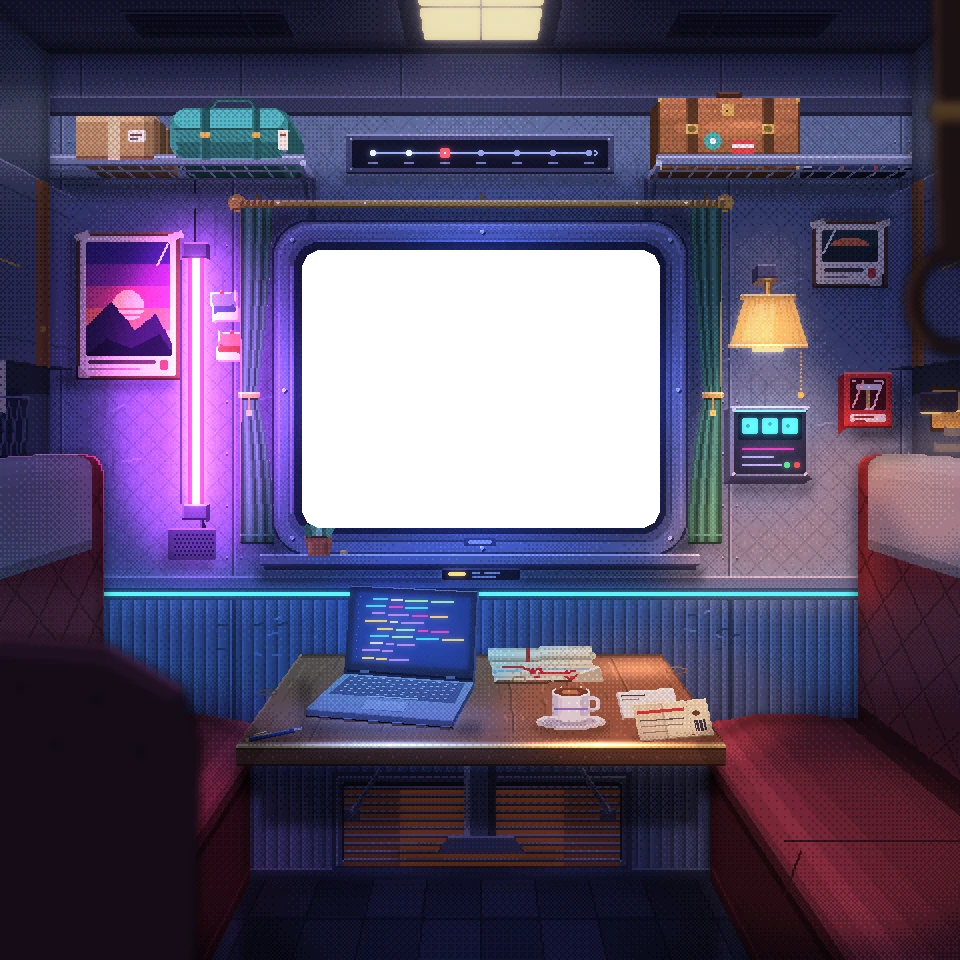
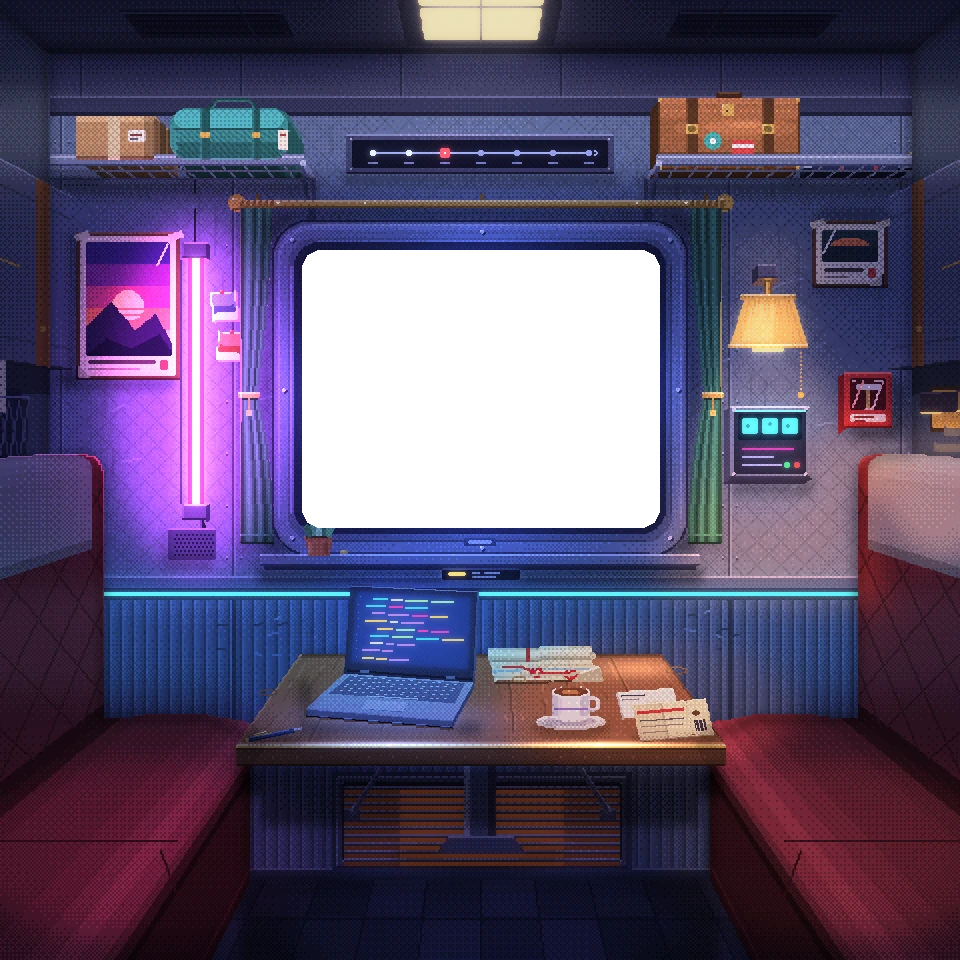
Revert "art(S-08): a foreground at the lens"
This reverts commit 41c35e211900637131da22fcb07e49766082dc27.

Changed region(s): [[0.0, 0.6562, 0.2188, 1.0], [0.9375, 0.0, 1.0, 0.375]]

diff --git a/tools/art/room.py b/tools/art/room.py
@@ -1919,43 +1919,6 @@ def reflections(a, table, front, k):
 BANDS = float(os.environ.get('BANDS', '0.2')) or None
 
 
-# The near layer (docs/13, S-08, stage 6): things right at the lens, dark,
-# large and a little soft, so the picture has a foreground inside the room as
-# well as at its sides: the end of the left-hand bench's armrest in the lower
-# left corner, and a grab strap hanging from the ceiling at the upper right.
-# Drawn into the room's picture, not as a layer of its own (D-03), and clear of
-# every object, whose sprites are cut from the same picture.
-NEAR_BLUR = 2.2  # scene units: soft, being out of focus so near the lens
-
-
-def near_layer(a, k):
-    h, w = a.shape[:2]
-    lay = Image.new('RGBA', (w, h), (0, 0, 0, 0))
-    d = ImageDraw.Draw(lay)
-    to = lambda pts: [((x + OX) * k, y * k) for x, y in pts]
-    # the armrest: the bench's padded end, near the camera, its top edge
-    # catching the neon
-    arm = [(-60, 480), (-60, 336), (0, 318), (54, 322), (92, 344), (100, 372), (98, 480)]
-    d.polygon(to(arm), fill=(20, 12, 24, 255))
-    d.line(to([(-60, 336), (0, 318), (54, 322), (92, 344)]), fill=(130, 58, 118, 255), width=round(2 * k))
-    d.line(to([(-60, 342), (0, 325), (52, 329), (86, 348)]), fill=(46, 22, 46, 255), width=round(3 * k))
-    for x, y in ((10, 344), (48, 350), (28, 372), (70, 376)):  # buttons in its quilting
-        d.ellipse(to([(x - 2, y - 1.4), (x + 2, y + 1.4)]), fill=(8, 4, 12, 255))
-    # the grab strap: leather from the ceiling right by the lens, a loop at its
-    # foot, its edge toward the lamp catching it
-    strap = [(466, -4), (490, -4), (488, 132), (468, 132)]
-    d.polygon(to(strap), fill=(26, 16, 18, 255))
-    d.line(to([(467, -4), (468, 132)]), fill=(130, 76, 50, 255), width=round(1.5 * k))
-    d.rectangle(to([(464, 52), (492, 60)]), fill=(76, 54, 32, 255))
-    d.line(to([(464, 52), (492, 52)]), fill=(150, 116, 70, 255), width=round(1 * k))
-    d.ellipse(to([(452, 122), (504, 178)]), outline=(26, 16, 18, 255), width=round(8 * k))
-    d.arc(to([(452, 122), (504, 178)]), 120, 235, fill=(130, 76, 50, 255), width=round(1.5 * k))
-    lay = lay.filter(ImageFilter.GaussianBlur(NEAR_BLUR * k))
-    la = np.asarray(lay).astype(np.float32)
-    al = la[..., 3:4] / 255
-    a[..., :3] = (a[..., :3] * (1 - al) + la[..., :3] * al).astype(np.uint8)
-
-
 def build_room(seed=21, over_rack=True):
     """The carriage as one RGBA image at output resolution, and the silhouette
     mask of every interactive object at 1x, keyed by object id. A key ending in
@@ -2020,7 +1983,6 @@ def build_room(seed=21, over_rack=True):
     value_plan(a, near, [g.masks[t] for t in ('projects', 'about', 'journey')], k)
     rim(a, [g.masks.pop('_rim'), near[0], near[2], g.masks['stack']], k)
     reflections(a, near[1], [near[2]] + [g.masks[t] for t in ('projects', 'about', 'journey')], k)
-    near_layer(a, k)
     # The page lays a vignette over the 480 scene (scene.css .vig) and must not
     # be made to cover the side extensions as well: overlays wider than the
     # scene, and gradients painted inside the extensions, both flickered in

diff --git a/docs/13-art-review.md b/docs/13-art-review.md
@@ -910,7 +910,7 @@ Done so far in stage 1, beyond what the step table names:
   behind the rack's rail this way.
 
 Stage 1 passed its gate and is merged. Stage 2 passed its gate and is merged.
-Stage 3 passed its gate and is merged. Stage 4 passed its gate and is merged: sharpness (4.1) was skipped after two attempts that stuttered or did not help (F-005 in 09), banded light (4.2), clean diagonals (4.3) and material marks (4.4) are done. Stage 5 passed its gate and is merged: the laptop (5.1), curtains (5.2), ticket, floor and side fittings (5.3) and the refines (5.4 to 5.6) are done. Stage 6 is built and waiting at its gate: `near_layer()` in `room.py` draws, into the room's picture, the end of the left-hand bench's armrest in the lower left corner and a leather grab strap with a loop hanging from the ceiling at the upper right, dark, large and blurred by 2.2 units, its edges catching the neon and the lamp, clear of every object. A separate parallax layer (D-03) stays deferred.
+Stage 3 passed its gate and is merged. Stage 4 passed its gate and is merged: sharpness (4.1) was skipped after two attempts that stuttered or did not help (F-005 in 09), banded light (4.2), clean diagonals (4.3) and material marks (4.4) are done. Stage 5 passed its gate and is merged: the laptop (5.1), curtains (5.2), ticket, floor and side fittings (5.3) and the refines (5.4 to 5.6) are done. Stage 6 is next.
 
 ## Keep in sync
 
